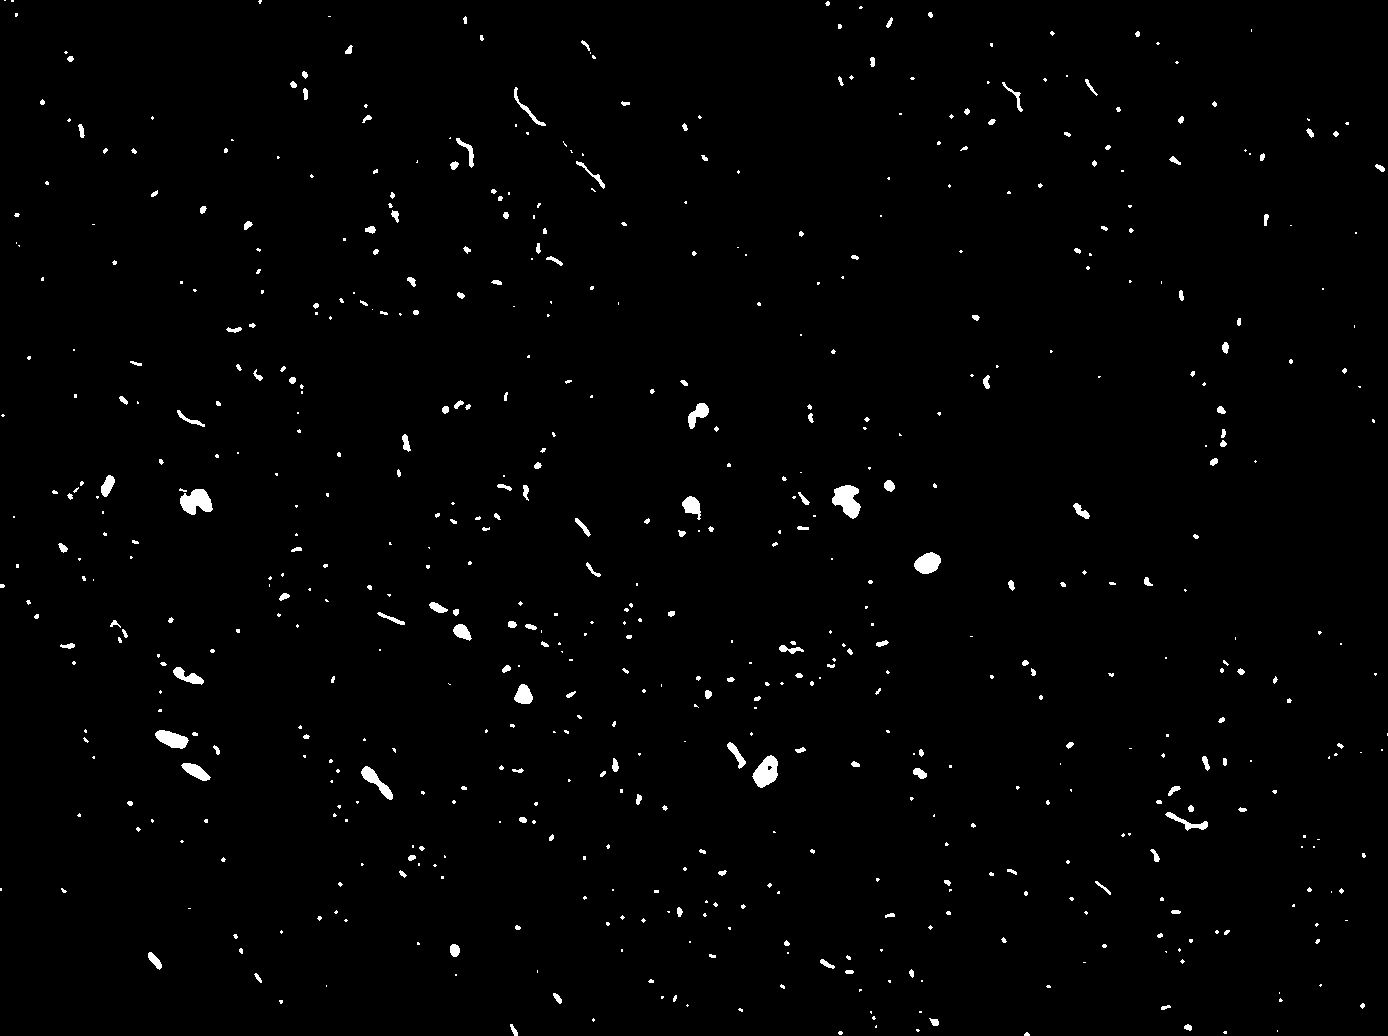
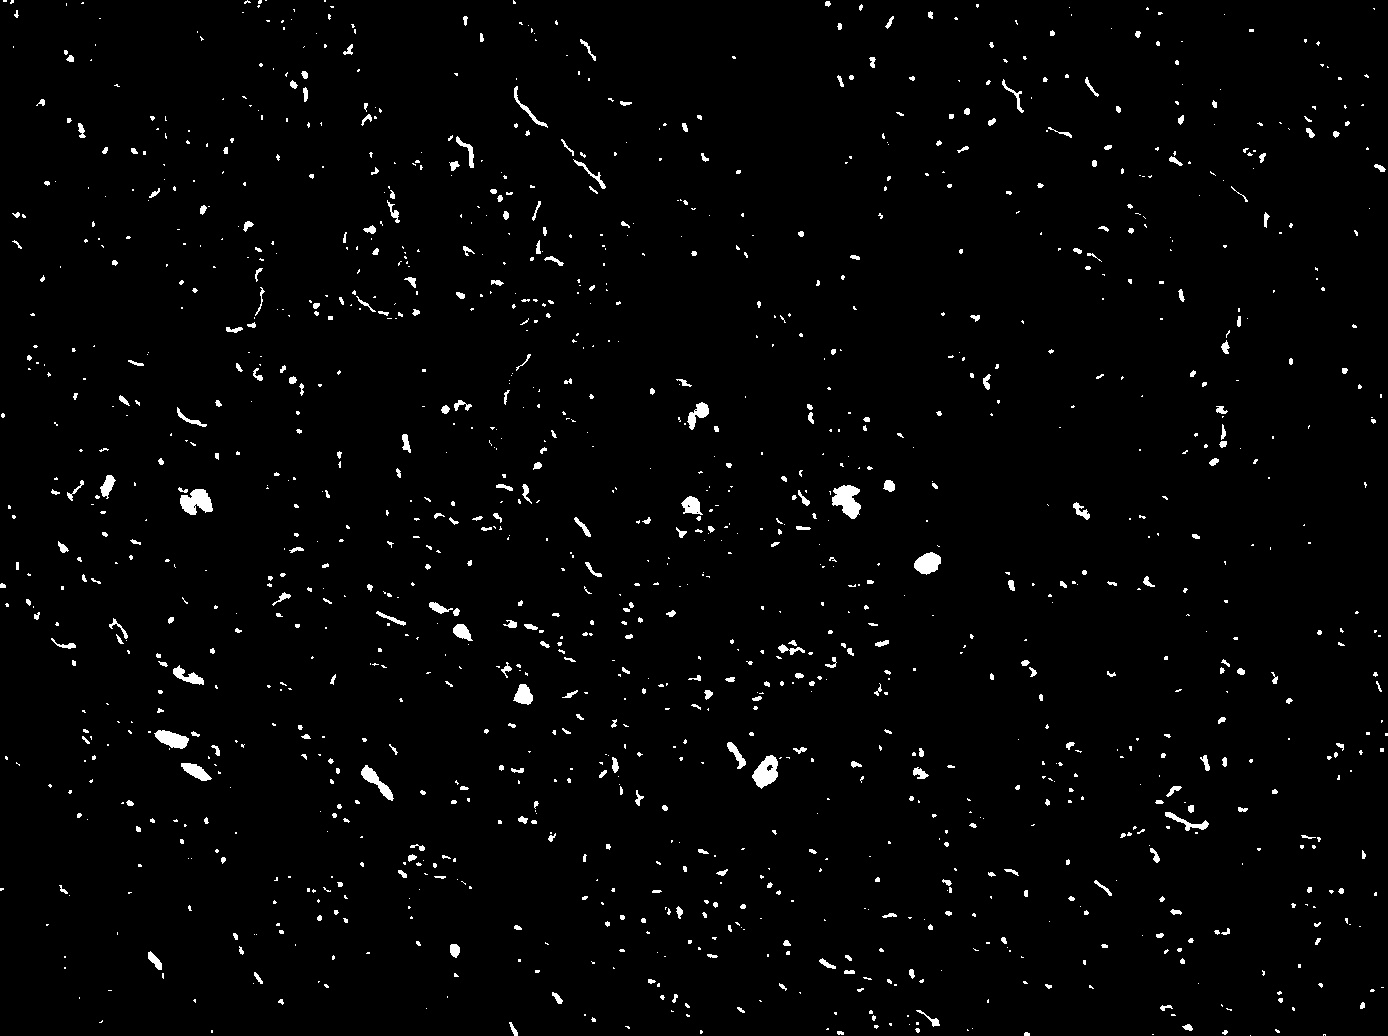
Calculate overlaps.

diff --git a/count.py b/count.py
@@ -20,22 +20,16 @@ import numpy as np
 
 INPUT_FILENAME = 'input.jpg'
 SENSITIVITY_THRESHOLD = 100
-NOISE_THRESHOLD = 5
+NOISE_THRESHOLD = 1
 
 
-def process_single_color_image(name, image):
+def generate_blur_and_circled_image(name, image):
     _, binary_image = cv2.threshold(image, SENSITIVITY_THRESHOLD, 255,
                                     cv2.THRESH_OTSU)
     cnts = cv2.findContours(binary_image, cv2.RETR_LIST,
                             cv2.CHAIN_APPROX_SIMPLE)[-2]
     blur_image = cv2.medianBlur(binary_image, NOISE_THRESHOLD)
-    circled_image = cv2.cvtColor(blur_image, cv2.COLOR_GRAY2RGB)
-    contours, _ = cv2.findContours(blur_image, cv2.RETR_EXTERNAL,
-                                   cv2.CHAIN_APPROX_NONE)
-    # Circles the objects.
-    for contour in contours:
-        cv2.drawContours(circled_image, [contour], 0, (0, 0, 255), 1)
-    print('Found ' + str(len(contours)) + ' objects in ' + name + '.')
+    circled_image = count_and_circle_objects(name, blur_image)
 
     # Saves images to disk.
     cv2.imwrite(name + ".jpg", image)
@@ -43,13 +37,38 @@ def process_single_color_image(name, image):
     cv2.imwrite(name + "_blur.jpg", blur_image)
     cv2.imwrite(name + "_circled.jpg", circled_image)
 
+    return blur_image, circled_image
+
+
+def count_and_circle_objects(name, image):
+    circled_image = cv2.cvtColor(image, cv2.COLOR_GRAY2RGB)
+    contours, _ = cv2.findContours(image, cv2.RETR_EXTERNAL,
+                                   cv2.CHAIN_APPROX_NONE)
+    # Circles the objects.
+    for contour in contours:
+        cv2.drawContours(circled_image, [contour], 0, (0, 0, 255), 1)
+    print('Found ' + str(len(contours)) + ' objects in ' + name + '.')
+
+    return circled_image
+
+
+def generate_overlap_image(image1, image2):
+    overlapped_image = cv2.bitwise_and(image1, image2)
+    cv2.imwrite("overlapped.jpg", overlapped_image)
+
+    overlapped_circled_image = count_and_circle_objects(
+        "overlapped", overlapped_image)
+    cv2.imwrite("overlapped_circled.jpg", overlapped_circled_image)
+
 
 def main():
     image = cv2.imread(INPUT_FILENAME)
-    blue_image, green_image, red_image = cv2.split(image)
-    process_single_color_image("blue", blue_image)
-    process_single_color_image("red", red_image)
-    process_single_color_image("green", green_image)
+    blue_image, _, red_image = cv2.split(image)
+
+    blue_blur_image, _ = generate_blur_and_circled_image("blue", blue_image)
+    red_blur_image, _ = generate_blur_and_circled_image("red", red_image)
+
+    generate_overlap_image(blue_blur_image, red_blur_image)
 
 
 if __name__ == "__main__":
